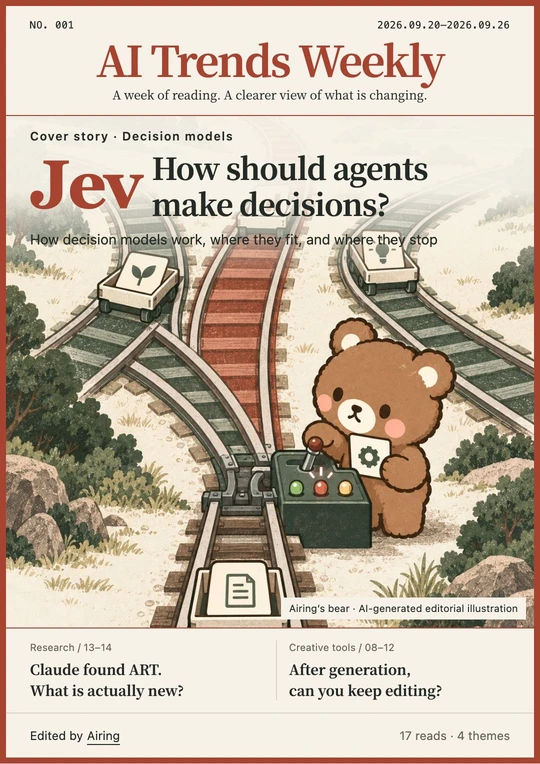
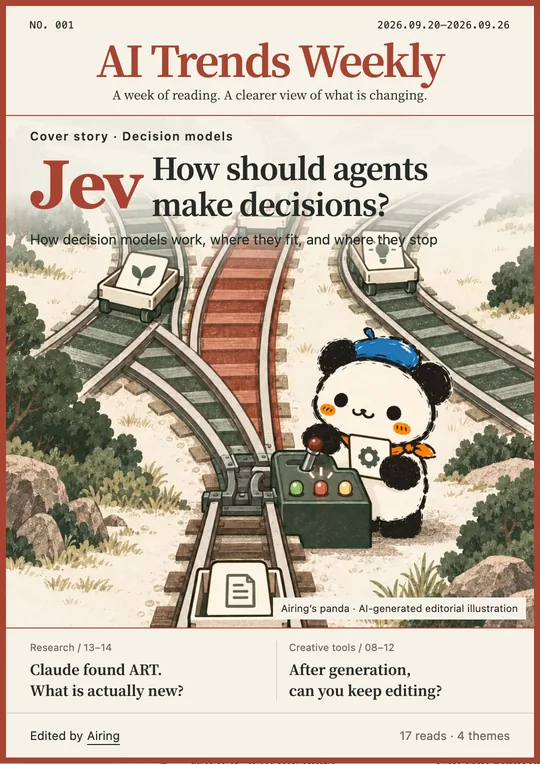
feat(weekly): redraw the three AI Weekly covers with the beret panda
Swap the brown bear for the new avatar in issues 001-003, keep each
watercolor scene, re-render share and shelf covers, and update alt text
and art credits.

diff --git a/src/data/ai-weekly/001.en.html b/src/data/ai-weekly/001.en.html
@@ -12,13 +12,13 @@
       <p class="cover-strapline">A week of reading. A clearer view of what is changing.</p>
     </div>
     <div class="cover-art">
-      <img src="/reading/weekly/001/assets/cover-01-jev.webp" width="1122" height="1402" fetchpriority="high" alt="Airing’s bear checks a control panel beside a railway junction. A task branches onto different tracks, illustrating model judgments and code-controlled execution.">
+      <img src="/reading/weekly/001/assets/cover-01-jev.webp" width="1122" height="1402" fetchpriority="high" alt="Airing’s beret-wearing panda checks a control panel beside a railway junction. A task branches onto different tracks, illustrating model judgments and code-controlled execution.">
       <div class="cover-story">
         <p class="cover-kicker">Cover story · Decision models</p>
         <h2><span class="cover-subject">Jev</span><span>How should agents </span><span>make decisions?</span></h2>
         <p class="cover-dek">How decision models work, where they fit, and where they stop</p>
       </div>
-      <p class="cover-art-credit">Airing’s bear · AI-generated editorial illustration</p>
+      <p class="cover-art-credit">Airing’s panda · AI-generated editorial illustration</p>
     </div>
     <div class="cover-lines">
       <a href="#science"><span>Research / 13–14</span><strong>Claude found ART. <br>What is actually new?</strong></a>

diff --git a/src/data/ai-weekly/001.html b/src/data/ai-weekly/001.html
@@ -13,13 +13,13 @@
       <p class="cover-strapline">每周阅读，理解正在发生的变化</p>
     </div>
     <div class="cover-art">
-      <img src="assets/cover-01-jev.webp" width="1122" height="1402" fetchpriority="high" alt="首页小熊在铁路道岔旁检查控制台，一份任务分向不同轨道，象征模型判断与代码执行的分工。">
+      <img src="assets/cover-01-jev.webp" width="1122" height="1402" fetchpriority="high" alt="戴贝雷帽的熊猫在铁路道岔旁检查控制台，一份任务分向不同轨道，象征模型判断与代码执行的分工。">
       <div class="cover-story">
         <p class="cover-kicker">封面专题 · 决策模型</p>
         <h2><span class="cover-subject">Jev</span><span>Agent 该如何</span><span>做决定？</span></h2>
         <p class="cover-dek">拆解决策模型的原理、应用与边界</p>
       </div>
-      <p class="cover-art-credit">小熊编辑台 · AI 概念插画</p>
+      <p class="cover-art-credit">熊猫编辑台 · AI 概念插画</p>
     </div>
     <div class="cover-lines">
       <a href="#science"><span>前沿研究 / 13—14</span><strong>Claude 找到 ART，<br>新的到底是什么？</strong></a>

diff --git a/tests/checklist.md b/tests/checklist.md
@@ -1,5 +1,12 @@
 # Browser QA Checklist
 
+### AI Weekly covers in the new avatar (October 18)
+
+- [x] Issues 001–003 cover illustrations keep their watercolor scenes and the space left for the title; only the brown bear became the beret panda. The small bear figures in issue 002 (stage silhouette, pinned sketch) are pandas too.
+- [x] Share covers (`share-cover-0N[-en].png`, 1080×1528) were re-rendered from the live `.issue-cover` at 540px; the `.webp` previews and `shelf-cover[-en].webp` were rebuilt from them. Social cards are built from these PNGs at build time.
+- [x] Cover alt text and art credits say panda instead of bear in both languages.
+- [x] `tsx --test tests/ai-weekly.test.mjs tests/weekly-analytics.test.mjs` passes 14/14.
+
 ### Echo covers + diorama strips in the new avatar (October 18)
 
 - [x] All twelve Echo cover illustrations keep their watercolor scenes, size and composition; only the brown bear became the beret panda. Each cover's crop (`coverPosition`) still shows the panda's face.
